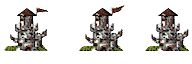
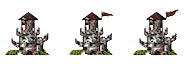
merge yeni's animated tower sprite to main

diff --git a/site/index.html b/site/index.html
@@ -4,9 +4,7 @@
     <meta charset="utf-8" />
     <title>TCSS491 Tower Defense</title>
     <link rel="icon" type="image/png" href="./icon.png" />
-    <!-- sets tab icon -->
     <link href="./style.css" rel="stylesheet" type="text/css" media="all" />
-    <!-- stylesheet import -->
   </head>
   <body>
     <main>
@@ -21,7 +19,7 @@
       <div id="infoBox">
         <h2>Tower Defense</h2>
         <h3>
-          Made by Raiden H, Kevin Hoang, Edward Wang, and Pham Nguyen, for
+          Made by Raiden H, Kevin Hoang, Edward Wang, and Yeni Nguyen, for
           TCSS491 Game and Simulation Design at UWT
         </h3>
       </div>

diff --git a/site/scripts/tower.js b/site/scripts/tower.js
@@ -15,7 +15,6 @@ class Tower {
       this.gameEngine = gameEngine;
       this.attackTimer = 0;
       this.animState = "idle";
-      this.rotation = -Math.PI / 2; // Start facing right (default: -90°)
       this.currentTarget = null;
       this.upgrade(this.currentLevel);
       
